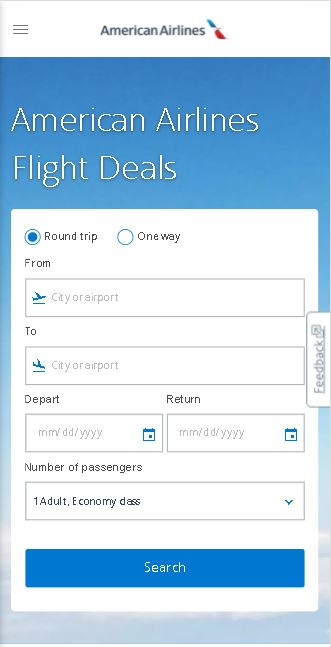
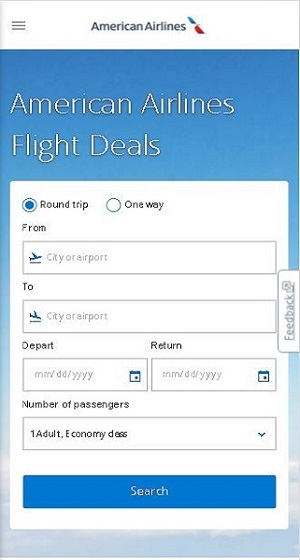
Css customization according to the activity

diff --git a/lesson2/design-principles.html b/lesson2/design-principles.html
@@ -7,6 +7,7 @@
     <link rel="stylesheet" href="css/normalize.css">
     <link rel="stylesheet" href="css/small.css" />
     <link rel="stylesheet" href="css/medium.css" />
+    <link rel="stylesheet" href="css/bigger.css" /> 
     <link rel="preconnect" href="https://fonts.googleapis.com">
     <link rel="preconnect" href="https://fonts.gstatic.com" crossorigin>
     <link href="https://fonts.googleapis.com/css2?family=IM+Fell+French+Canon+SC&display=swap" rel="stylesheet">
@@ -38,7 +39,7 @@
       <h3>
         Visual Hierarchy
       </h3>
-      <p>
+      <p class="title_p">
         The Guardian
       </p>
       <a href="https://www.theguardian.com/international">theguardian.com/international </a>
@@ -51,7 +52,7 @@
         <h3>
           White Space and Clean Design
         </h3>
-        <p>
+        <p class="title_p">
           American Airlines
         </p>
         <a href="https://www.aa.com/en-us/flights">aa.com/en-us/flights </a>
@@ -60,12 +61,12 @@
           The page contains only the elements necessary for a flight search. 
           The elements are well distributed on the screen and the empty spaces are very well used. </p>
         </section>
-        <section>
+        <section id="special_section">
           <h3>
             Alignment
           </h3>
-          <p>
-            The Church of Jesus Christ of Latter Day Saints  - Institute
+          <p class="title_p">
+            The Church of Jesus Christ - Institute
           </p>
           <a href="https://www.churchofjesuschrist.org/si/institute?lang=eng">churchofjesuschrist.org/si/institute </a>
           <img src="images/the_church_of_jesus_christ_of_latter_day_saints.JPG" alt="The Church of Jesus Christ of Latter Day Saints website - Institute section. Mobile View  ">

diff --git a/lesson2/css/small.css b/lesson2/css/small.css
@@ -19,13 +19,35 @@ h2{
   font-size: 25px;
 }
 
-#content {
-  max-width: 700px;
-  margin: 0 auto;
+h3{
+  color: white;
+  text-align: center;
+  font-family: 'IM Fell French Canon SC', serif;
+  background-color: #0f3c43;
+  border-radius: 15px;
+  font-size: 14px;
 }
 
+#content {
+  max-width: 375px;
+  margin: 0 auto;
+  text-align: center;
+}
 
+main{
+  max-width: 375px;
+  display: grid;
+  grid-template-columns: 1fr;
+}
 
+.title_p, a{
+  font-family: "Montserrat", "Lato", "open Sans";
+  font-weight: bold;
+}
+
+p{
+  font-family: "Montserrat", "Lato", "open Sans";
+}
 
 
 footer {

diff --git a/lesson2/css/medium.css b/lesson2/css/medium.css
@@ -1,18 +1,29 @@
-@media only screen and (min-width: 32.5em) {
+@media only screen and (min-width: 45em) {
   h1 {
-    font-size: 45px;
-  }
-
-  .home-headline {
     font-size: 35px;
   }
 
-  .span_li {
-    left: -90px;
+  h2 {
     font-size: 25px;
   }
+
+  h3{
+    border-radius: 20px;
+    font-size: 18px;  
+
+  }
+
+  #content {
+    max-width: 630px;
+    margin: 0 auto;
+    text-align: center;
+  }
+ 
 main {
       grid-template-columns: 1fr 1fr;
+      grid-gap: 2em;
+      
+    } 
 
-    }
+ 
 }

diff --git a/lesson2/css/bigger.css b/lesson2/css/bigger.css
@@ -1,0 +1,29 @@
+@media only screen and (min-width: 60em){
+    #content {
+        max-width: 970px;
+        margin: 0 auto;
+      }
+
+
+      h1 {
+        font-size: 45px;
+      }
+    
+      h2 {
+        font-size: 35px;
+      }
+      h3{
+        border-radius: 25px;
+        font-size: 22px;  
+  
+      }
+
+
+      
+    main {
+        grid-template-columns: 1fr 1fr 1fr;
+        grid-gap: 2em;
+    } 
+    
+    
+}
